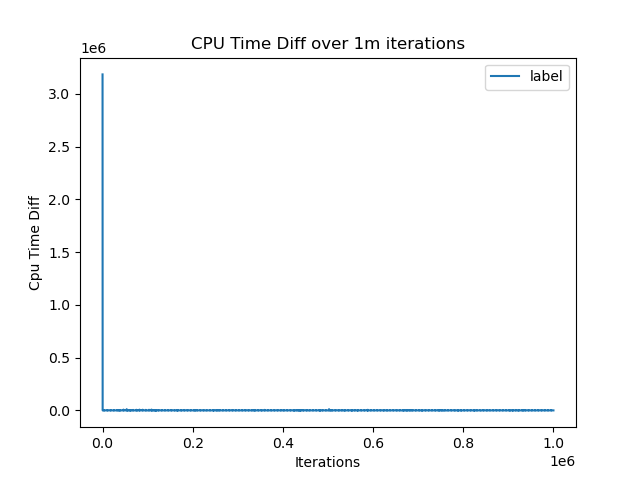
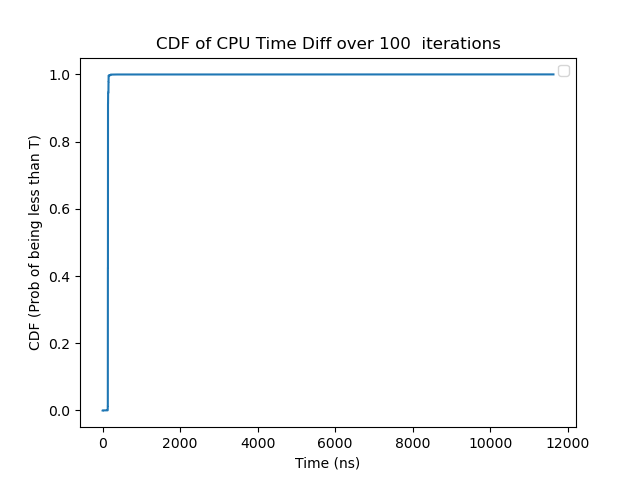
plot the CDF function in python

diff --git a/assignment2/plot.py b/assignment2/plot.py
@@ -5,15 +5,15 @@ import matplotlib.pyplot as plt
 
 # parameters to modify 
 filename="time_py.txt"
-label='label'
-xlabel = 'Iterations'
-ylabel = 'Cpu Time Diff'
-title='CPU Time Diff over 1m iterations'
+label='Python'
+xlabel = 'Time (ns)'
+ylabel = 'CDF (Prob of being less than T)'
+title='CDF of CPU Time Diff over 100  iterations'
 fig_name='my_graph.png'
 bins=100 #adjust the number of bins to your plot
 
 ## load data from input file
-t = np.loadtxt(filename, delimiter=" ", dtype="float")
+t = np.loadtxt(filename, delimiter=" ", dtype="float")[2:]
 
 ## if your data is "X Y" (2 cols), use the following line
 #plt.plot(t[:,0], t[:,1], label=label)  # Plot some data on the (implicit) axes.
@@ -22,13 +22,13 @@ t = np.loadtxt(filename, delimiter=" ", dtype="float")
 #plt.plot(t, label=label)  # Plot some data on the (implicit) axes.
 
 ## comment the lines above and uncomment the line below to plot a simple CDF
-plt.hist(t[:], bins, density=True, histtype='step', cumulative=True, label=label)
+#plt.hist(t[:], bins, density=True, histtype='step', cumulative=True, label=label)
 
 ## comment the lines above and uncomment the 4 lines below for a nicer CDF
-#n = np.arange(1,len(t)+1) / float(len(t))
-#ts = np.sort(t)
-#fig, ax = plt.subplots()
-#ax.step(ts,n)
+n = np.arange(1,len(t)+1) / float(len(t))
+ts = np.sort(t)
+fig, ax = plt.subplots()
+ax.step(ts,n)
 
 plt.xlabel(xlabel)
 plt.ylabel(ylabel)
